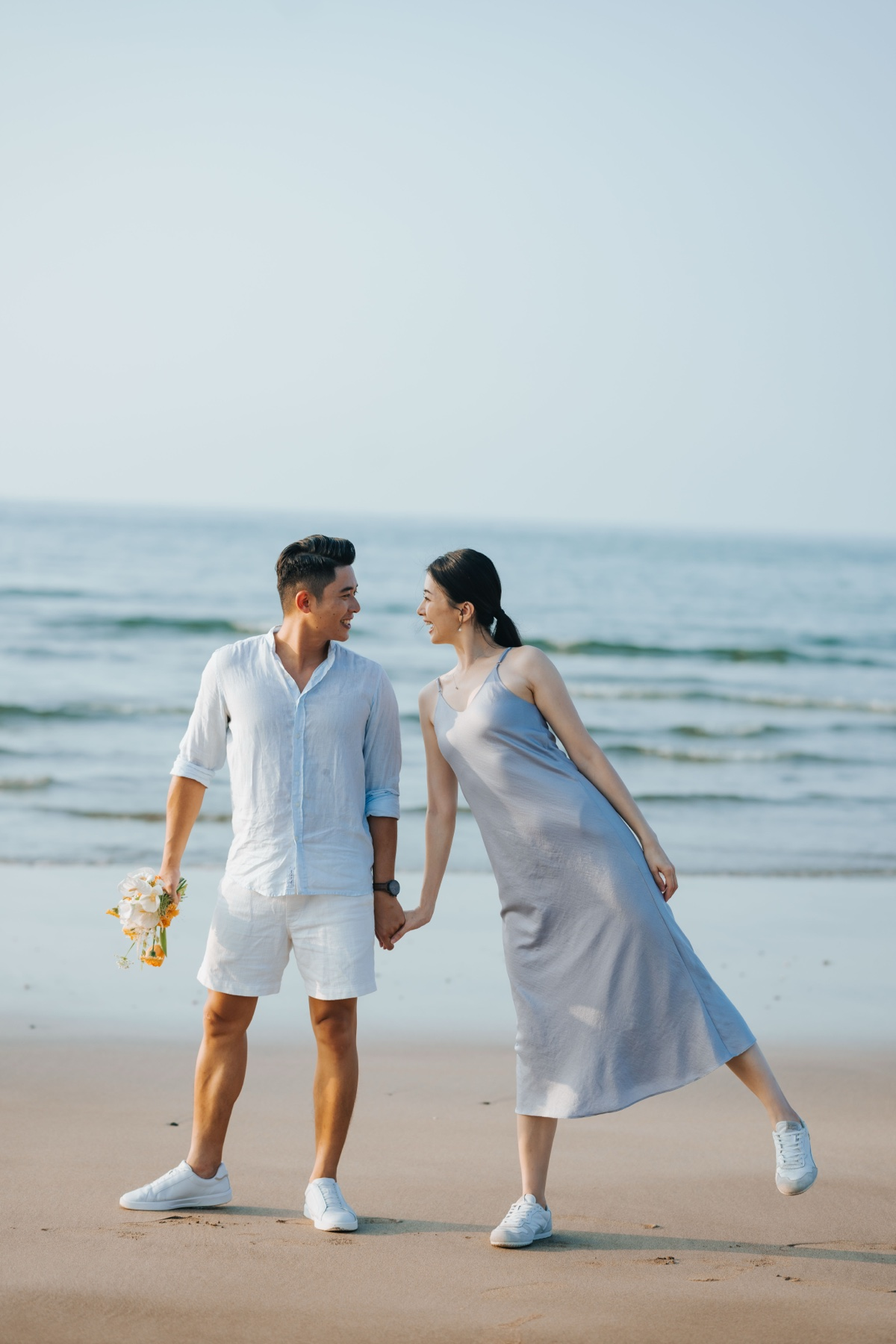
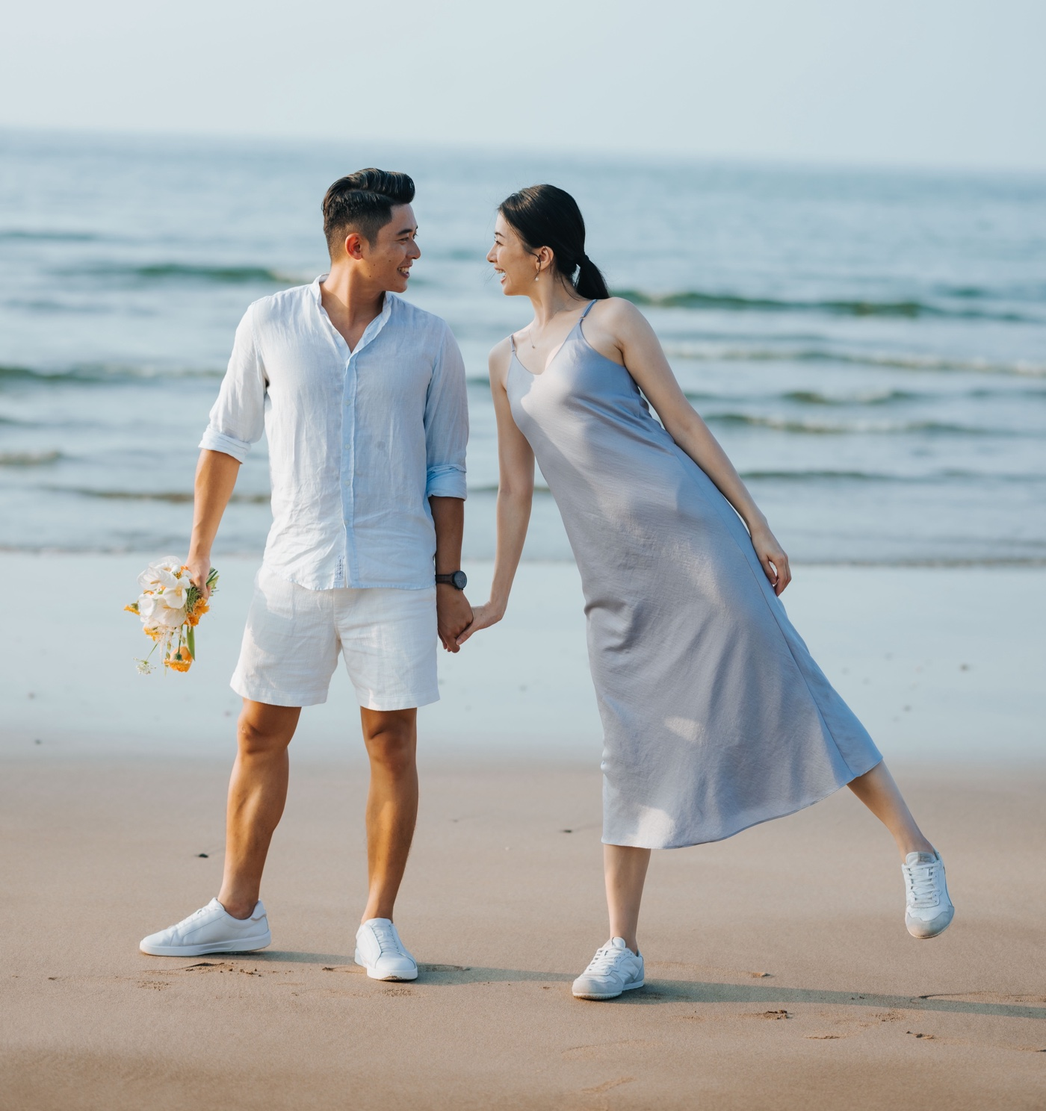
感謝區改版：隱藏標題、照片放大、結尾照裁掉天空
1. 送出回函後，「Kindly reply / 期待，與你相見」這組標題會一起隱藏。
   原本只隱藏表單，標題留著，看起來像還要再填一次。
   按「返回回函內容」會還原。

2. 感謝照從 max-width 460px 放大到內容滿版（.rsvp 內容寬 752px），
   跟底下的回函結果框對齊。手機同樣改成滿版。

3. 結尾照（毛片 931）從原檔頂端裁掉 2400px，天空只留一條。
   比例從 0.667 變成 0.94，版位跟著從 340px 放大到 430px，
   手機從 260px 放大到 310px。

驗過：電腦 1024 寬與手機 375×812。手機 scrollWidth 等於 clientWidth，
沒有水平溢出。

diff --git a/index.html b/index.html
@@ -24,20 +24,20 @@ body{font-family:'Wedding English Italic','Wedding English','LXGW WenKai TC','Pi
 body,body *{font-family:'Wedding English Italic','Wedding English','LXGW WenKai TC','PingFang TC','Microsoft JhengHei',sans-serif}
 .eyebrow{text-transform:none;letter-spacing:1.2px;font-size:20px}.calendar-heading{letter-spacing:1px}label small{letter-spacing:.5px}
 .reply-result-panel{scroll-margin-top:90px;text-align:center}.reply-result-heading{margin-bottom:25px}.reply-frame-wrap{background:#e9e1d8;border:1px solid #d3c9bd;padding:18px}.reply-frame-wrap iframe{display:block;width:100%;height:650px;border:0;background:#f7f3ee}.reply-photo{margin:55px 0 30px}.reply-photo img{display:block;width:100%;height:auto}.reply-photo figcaption{font-size:23px;margin-top:15px;color:#748071}@media(max-width:700px){.reply-frame-wrap{padding:8px}.reply-frame-wrap iframe{height:580px}.reply-photo{margin-top:35px}}
-.reply-photo{max-width:460px;margin:0 auto 30px}.reply-photo img{width:100%;height:auto}.reply-result-heading{margin-bottom:25px}@media(max-width:700px){.reply-photo{max-width:320px;margin:0 auto 25px}}
+.reply-photo{max-width:none;margin:0 auto 34px}.reply-photo img{width:100%;height:auto}.reply-result-heading{margin-bottom:25px}@media(max-width:700px){.reply-photo{max-width:none;margin:0 auto 25px}}
 
 /* Larger guest-facing text for comfortable reading. */
 .tagline{font-size:19px}.hero-copy>.button{font-size:15px}.card h3{font-size:22px}.card p{font-size:16px}.card>.small{font-size:14px}.card .map-link{font-size:15px}.number{font-size:30px}
 #reply label,#reply legend{font-size:15px}#reply label small{font-size:14px}#reply input,#reply select,#reply textarea{font-size:18px}#reply .small{font-size:14px}#reply .button{font-size:15px}#reply .form-footer span{font-size:13px}
 @media(max-width:700px){.tagline{font-size:17px}}
 .attendance-block{border:1px solid #ccd3c6;padding:25px;margin:8px 0;background:#f1f3eb}.attendance-block>legend{font-size:23px;padding:0 10px}.attendance-block>label,.attendance-block #lunch-details>label{margin-top:20px}.diet-options{padding:0;border:0;margin:25px 0 0}.diet-options>label{display:flex;align-items:center;gap:12px;margin:12px 0}.diet-options input[type=checkbox]{width:22px;min-height:22px;margin:0}.diet-options #diet-other-field{display:block}.fields>.form-note{margin:0}.attendance-block input[readonly]{background:#e7ebe1}@media(max-width:700px){.attendance-block{padding:20px 15px}.attendance-block>legend{font-size:20px}}
-.addr{font-size:13px;color:#748071;margin:-6px 0 14px;letter-spacing:.3px}.travel{background:var(--paper);padding:80px 6%}.map-actions{display:flex;flex-wrap:wrap;gap:20px;align-items:center}.travel-top{max-width:1100px;margin:0 auto 26px;display:flex;flex-direction:column;align-items:center;gap:20px}.travel-figure{margin:0;max-width:700px;width:100%}.travel-map text{font-family:'Wedding English','LXGW WenKai TC','PingFang TC',sans-serif;letter-spacing:.5px}.travel-map-scroll{overflow-x:auto;-webkit-overflow-scrolling:touch;border:1px solid #dce0d5;background:#faf9f4}.travel-figure .travel-map{width:100%;height:auto;display:block;background:#faf9f4}.travel-figure figcaption{font-size:12px;color:#748071;text-align:center;margin-top:10px}.pan-hint{display:none}.travel-actions{display:flex;flex-wrap:wrap;gap:14px;justify-content:center}@media(max-width:700px){.travel-figure .travel-map{min-width:660px}.pan-hint{display:inline}.travel{padding:55px 6%}.addr{font-size:14px}}/* 2026-11-07: 整體字級放大，並改用 LXGW 霞鶩文楷 TC。原本的 ChenYuluoyan 缺「高雄市路號交通規劃線」等字形，缺字的地方會掉回系統黑體，同一行變成兩種字體。霞鶩文楷是楷體，繁體字形齊全，字面也比較大。*/body{font-size:18px}.tagline{font-size:22px}.card h3{font-size:26px}.card p{font-size:19px}.card>.small{font-size:16px}.card .map-link,.map-link{font-size:17px}.addr{font-size:19px;color:#6b7768}.form-note,#reply .form-note{font-size:17px}#reply label{font-size:18px}#reply .small{font-size:16px}.travel-figure figcaption{font-size:14px}.button,#reply .button{font-size:17px}@media(max-width:700px){body{font-size:18px}.card h3{font-size:23px}.card p{font-size:18px}.addr{font-size:18px}.card .map-link,.map-link{font-size:17px}.form-note,#reply .form-note{font-size:17px}#reply label{font-size:18px}.travel-figure figcaption{font-size:14px}}/* 2026-11-07: 導覽列字級放大，與內文一致。*/.links{font-size:17px;gap:34px}.brand{font-size:28px}@media(max-width:700px){.links{font-size:15px;gap:18px}.brand{font-size:22px}}/* 2026-11-07: 回覆期限原本用 <strong>，會載入霞鶩文楷的 Bold 字檔，跟內文的 Regular 看起來是兩種字體。改成同字重、用金色強調。*/.form-note strong{font-weight:400;color:var(--gold);letter-spacing:.5px}/* 2026-11-07: 交通資訊之後補一段結尾感謝照。*/.closing{background:#f7f3e9;border-top:1px solid #ddd9cc;padding:80px 6%;text-align:center}.closing-photo{margin:0 auto 26px;max-width:340px}.closing-photo img{display:block;width:100%;height:auto}.closing-copy p{margin:0;font-size:21px;color:#6b7768;letter-spacing:.5px}@media(max-width:700px){.closing{padding:55px 6%}.closing-photo{max-width:260px}.closing-copy p{font-size:19px}}</style></head><body>
+.addr{font-size:13px;color:#748071;margin:-6px 0 14px;letter-spacing:.3px}.travel{background:var(--paper);padding:80px 6%}.map-actions{display:flex;flex-wrap:wrap;gap:20px;align-items:center}.travel-top{max-width:1100px;margin:0 auto 26px;display:flex;flex-direction:column;align-items:center;gap:20px}.travel-figure{margin:0;max-width:700px;width:100%}.travel-map text{font-family:'Wedding English','LXGW WenKai TC','PingFang TC',sans-serif;letter-spacing:.5px}.travel-map-scroll{overflow-x:auto;-webkit-overflow-scrolling:touch;border:1px solid #dce0d5;background:#faf9f4}.travel-figure .travel-map{width:100%;height:auto;display:block;background:#faf9f4}.travel-figure figcaption{font-size:12px;color:#748071;text-align:center;margin-top:10px}.pan-hint{display:none}.travel-actions{display:flex;flex-wrap:wrap;gap:14px;justify-content:center}@media(max-width:700px){.travel-figure .travel-map{min-width:660px}.pan-hint{display:inline}.travel{padding:55px 6%}.addr{font-size:14px}}/* 2026-11-07: 整體字級放大，並改用 LXGW 霞鶩文楷 TC。原本的 ChenYuluoyan 缺「高雄市路號交通規劃線」等字形，缺字的地方會掉回系統黑體，同一行變成兩種字體。霞鶩文楷是楷體，繁體字形齊全，字面也比較大。*/body{font-size:18px}.tagline{font-size:22px}.card h3{font-size:26px}.card p{font-size:19px}.card>.small{font-size:16px}.card .map-link,.map-link{font-size:17px}.addr{font-size:19px;color:#6b7768}.form-note,#reply .form-note{font-size:17px}#reply label{font-size:18px}#reply .small{font-size:16px}.travel-figure figcaption{font-size:14px}.button,#reply .button{font-size:17px}@media(max-width:700px){body{font-size:18px}.card h3{font-size:23px}.card p{font-size:18px}.addr{font-size:18px}.card .map-link,.map-link{font-size:17px}.form-note,#reply .form-note{font-size:17px}#reply label{font-size:18px}.travel-figure figcaption{font-size:14px}}/* 2026-11-07: 導覽列字級放大，與內文一致。*/.links{font-size:17px;gap:34px}.brand{font-size:28px}@media(max-width:700px){.links{font-size:15px;gap:18px}.brand{font-size:22px}}/* 2026-11-07: 回覆期限原本用 <strong>，會載入霞鶩文楷的 Bold 字檔，跟內文的 Regular 看起來是兩種字體。改成同字重、用金色強調。*/.form-note strong{font-weight:400;color:var(--gold);letter-spacing:.5px}/* 2026-11-07: 交通資訊之後補一段結尾感謝照。*/.closing{background:#f7f3e9;border-top:1px solid #ddd9cc;padding:80px 6%;text-align:center}.closing-photo{margin:0 auto 26px;max-width:430px}.closing-photo img{display:block;width:100%;height:auto}.closing-copy p{margin:0;font-size:21px;color:#6b7768;letter-spacing:.5px}@media(max-width:700px){.closing{padding:55px 6%}.closing-photo{max-width:310px}.closing-copy p{font-size:19px}}</style></head><body>
 
 <header><nav aria-label="主要導覽"><a class="brand" href="#home">L&amp;A</a><div class="links"><a href="#details">婚禮資訊</a><a href="#rsvp">出席回函</a><a href="#travel">交通資訊</a></div></nav></header>
 <main><section class="hero" id="home"><div class="hero-copy"><div class="eyebrow">Our love, Our adventure</div><h1>晏徵 <em>&amp;</em> 佳瑜</h1><p class="tagline">一起，把日子過成喜歡的樣子。<br>也想邀請你，成為這一天的風景。</p><p class="hero-date">2027.01.09 · 星期六</p><a class="button" href="#rsvp">與我們一起慶祝 ↗</a></div><div><div class="portrait"><img class="wedding-photo" src="wedding-portrait.jpg" alt="晏徵與佳瑜在草地上相依而笑的婚紗合照" fetchpriority="high"></div><div class="caption">A little moment, a lifetime of us.</div></div></section>
 
 <section class="save-date calendar-alternative" aria-labelledby="calendar-title-alternative"><div class="calendar-triptych"><figure class="side-photo"><img src="calendar-groom.jpg" alt="新郎晏徵的戶外婚紗照" loading="lazy"></figure><div class="calendar-copy"><div class="eyebrow">Save Our Date</div><h2 id="calendar-title-alternative" class="calendar-heading"><span>January</span><span>2027</span></h2><div class="wedding-calendar" aria-label="2027 年 1 月日曆，9 日為婚禮日"><span class="calendar-weekday">日</span><span class="calendar-weekday">一</span><span class="calendar-weekday">二</span><span class="calendar-weekday">三</span><span class="calendar-weekday">四</span><span class="calendar-weekday">五</span><span class="calendar-weekday">六</span><span aria-hidden="true"></span><span aria-hidden="true"></span><span aria-hidden="true"></span><span aria-hidden="true"></span><span aria-hidden="true"></span><span class="calendar-day">1</span><span class="calendar-day">2</span><span class="calendar-day">3</span><span class="calendar-day">4</span><span class="calendar-day">5</span><span class="calendar-day">6</span><span class="calendar-day">7</span><span class="calendar-day">8</span><span class="calendar-day wedding-day" aria-label="1 月 9 日 星期六，婚禮日"><svg viewBox="0 0 80 80" aria-hidden="true"><path d="M40 68C33 61 8 44 8 26C8 8 30 7 40 24C51 6 73 9 72 27C71 44 48 63 40 68Z"/></svg><strong>9</strong></span><span class="calendar-day">10</span><span class="calendar-day">11</span><span class="calendar-day">12</span><span class="calendar-day">13</span><span class="calendar-day">14</span><span class="calendar-day">15</span><span class="calendar-day">16</span><span class="calendar-day">17</span><span class="calendar-day">18</span><span class="calendar-day">19</span><span class="calendar-day">20</span><span class="calendar-day">21</span><span class="calendar-day">22</span><span class="calendar-day">23</span><span class="calendar-day">24</span><span class="calendar-day">25</span><span class="calendar-day">26</span><span class="calendar-day">27</span><span class="calendar-day">28</span><span class="calendar-day">29</span><span class="calendar-day">30</span><span class="calendar-day">31</span><span aria-hidden="true"></span><span aria-hidden="true"></span><span aria-hidden="true"></span><span aria-hidden="true"></span><span aria-hidden="true"></span><span aria-hidden="true"></span></div></div><figure class="side-photo"><img src="calendar-bride.jpg" alt="新娘佳瑜的戶外婚紗照" loading="lazy"></figure></div></section><section class="details" id="details"><div class="section-head"><div class="eyebrow">The Wedding Day</div><h2 class="section-title">把這一天，留給我們</h2></div><div class="cards"><article class="card"><div class="number">01 /</div><h3>婚禮儀式</h3><div class="small">The Ceremony</div><p>2027 年 1 月 9 日（六）<br>09:30–10:30</p><p>地點：台灣基督長老教會前金教會</p><p class="addr">高雄市前金區五福三路 97 號</p><a class="map-link" href="https://maps.app.goo.gl/phby8ZSrJLgBkXyQA" target="_blank" rel="noopener noreferrer" aria-label="在 Google 地圖開啟台灣基督長老教會前金教會">查看地圖 ↗</a></article><article class="card"><div class="number">02 /</div><h3>午宴相聚</h3><div class="small">The Celebration</div><p>2027 年 1 月 9 日（六）<br>12:00–14:30</p><p>地點：老新台菜九如店</p><p class="addr">高雄市三民區九如二路 227 號</p><a class="map-link" href="https://maps.app.goo.gl/Qx95wd6UuRTA6n839" target="_blank" rel="noopener noreferrer" aria-label="在 Google 地圖開啟老新台菜九如創始店">查看地圖 ↗</a></article></div></section>
-<section class="rsvp" id="rsvp"><div class="section-head"><div class="eyebrow">Kindly reply</div><h2 class="section-title">期待，與你相見</h2><p>留下你的出席意願，讓幸福有你的位置。</p></div><form id="reply" action="https://docs.google.com/forms/d/e/1FAIpQLSdvM0_wdGFVBdTxaj0LANCk2AFdigYhXw1_oxZYpaJUNWiHQQ/formResponse" method="post" target="rsvp-result"><input type="hidden" name="fvv" value="1"><input type="hidden" name="pageHistory" id="reply-pages" value="0"><div class="fields"><p class="form-note"><strong>請於 2026 年 12 月 20 日（日）前回覆。</strong><br>儀式與午宴分別統計，兩場人數可以不同，請分別填寫。未參加的場次，人數會自動填為 0。</p><label>姓名 <small>NAME *</small><input name="entry.859188284" autocomplete="name" required placeholder="怎麼稱呼你？"></label><fieldset class="attendance-block"><legend>① 證婚儀式｜09:30–10:30</legend><label>是否出席證婚儀式？ *<select id="ceremony-attendance" name="entry.1593922786" required><option value="">請選擇</option><option value="當然！">參加</option><option value="不參加">不參加</option></select></label><label>證婚儀式出席人數（含本人及兒童） *<select id="ceremony-count" name="entry.347045991" required><option value="">請選擇</option><option>0</option><option>1</option><option>2</option><option>3</option><option>4</option><option>5</option></select></label></fieldset><fieldset class="attendance-block"><legend>② 午宴｜12:00–14:30</legend><label>是否出席午宴？ *<select id="lunch-attendance" name="entry.1276375646" required><option value="">請選擇</option><option value="一定會出席!">參加</option><option value="無法出席，祝你們幸福!">不參加</option></select></label><label>午宴出席人數（含本人及兒童） *<select id="lunch-count" name="entry.811346646" required><option value="">請選擇</option><option>0</option><option>1</option><option>2</option><option>3</option><option>4</option><option>5</option></select></label><div id="lunch-details" hidden><label>午宴兒童座椅需求 *<select name="entry.1755943775" id="lunch-chair" disabled><option value="">請選擇</option><option>不需要</option><option>１</option><option>２</option><option>３</option><option>４</option></select></label><fieldset class="diet-options"><legend>午宴飲食需求 *</legend><label><input type="checkbox" name="entry.61594146" value="葷" disabled>葷</label><label><input type="checkbox" name="entry.61594146" value="素" disabled>素</label><label><input id="diet-other" type="checkbox" name="entry.61594146" value="__other_option__" disabled>其他</label><label id="diet-other-field" hidden>過敏原或特殊飲食需求<input id="diet-other-text" name="entry.61594146.other_option_response" type="text" disabled placeholder="例如：花生過敏、不吃海鮮"></label><p class="small">可複選；如有過敏原或特殊飲食需求，請勾選「其他」並填寫。</p></fieldset></div></fieldset></div><div class="form-footer"><button class="button" id="send-reply" type="submit">送出出席回函 ↗</button></div><p class="small">＊為必填欄位 · 回函將直接傳送至新人的 Google 表單。</p><div id="reply-status" role="status" class="form-note" hidden></div></form><section id="reply-result-panel" class="reply-result-panel" aria-labelledby="reply-result-title" hidden><div class="reply-result-heading"><div class="eyebrow">With love &amp; thanks</div><h2 id="reply-result-title" class="section-title" tabindex="-1">謝謝你的回覆</h2></div><figure class="reply-photo"><img src="reply-photo.jpeg" alt="晏徵與佳瑜在白牆前席地而坐、手捧黃色捧花的婚紗合照" loading="lazy"><figcaption>Our love, Our adventure</figcaption></figure><div class="reply-frame-wrap"><iframe name="rsvp-result" id="reply-result-frame" title="Google 表單回函結果"></iframe></div><p class="small">若結果未能顯示，請聯絡新人確認收件。</p><button type="button" class="button light" id="back-to-reply">返回回函內容</button></section></section>
+<section class="rsvp" id="rsvp"><div class="section-head" id="rsvp-head"><div class="eyebrow">Kindly reply</div><h2 class="section-title">期待，與你相見</h2><p>留下你的出席意願，讓幸福有你的位置。</p></div><form id="reply" action="https://docs.google.com/forms/d/e/1FAIpQLSdvM0_wdGFVBdTxaj0LANCk2AFdigYhXw1_oxZYpaJUNWiHQQ/formResponse" method="post" target="rsvp-result"><input type="hidden" name="fvv" value="1"><input type="hidden" name="pageHistory" id="reply-pages" value="0"><div class="fields"><p class="form-note"><strong>請於 2026 年 12 月 20 日（日）前回覆。</strong><br>儀式與午宴分別統計，兩場人數可以不同，請分別填寫。未參加的場次，人數會自動填為 0。</p><label>姓名 <small>NAME *</small><input name="entry.859188284" autocomplete="name" required placeholder="怎麼稱呼你？"></label><fieldset class="attendance-block"><legend>① 證婚儀式｜09:30–10:30</legend><label>是否出席證婚儀式？ *<select id="ceremony-attendance" name="entry.1593922786" required><option value="">請選擇</option><option value="當然！">參加</option><option value="不參加">不參加</option></select></label><label>證婚儀式出席人數（含本人及兒童） *<select id="ceremony-count" name="entry.347045991" required><option value="">請選擇</option><option>0</option><option>1</option><option>2</option><option>3</option><option>4</option><option>5</option></select></label></fieldset><fieldset class="attendance-block"><legend>② 午宴｜12:00–14:30</legend><label>是否出席午宴？ *<select id="lunch-attendance" name="entry.1276375646" required><option value="">請選擇</option><option value="一定會出席!">參加</option><option value="無法出席，祝你們幸福!">不參加</option></select></label><label>午宴出席人數（含本人及兒童） *<select id="lunch-count" name="entry.811346646" required><option value="">請選擇</option><option>0</option><option>1</option><option>2</option><option>3</option><option>4</option><option>5</option></select></label><div id="lunch-details" hidden><label>午宴兒童座椅需求 *<select name="entry.1755943775" id="lunch-chair" disabled><option value="">請選擇</option><option>不需要</option><option>１</option><option>２</option><option>３</option><option>４</option></select></label><fieldset class="diet-options"><legend>午宴飲食需求 *</legend><label><input type="checkbox" name="entry.61594146" value="葷" disabled>葷</label><label><input type="checkbox" name="entry.61594146" value="素" disabled>素</label><label><input id="diet-other" type="checkbox" name="entry.61594146" value="__other_option__" disabled>其他</label><label id="diet-other-field" hidden>過敏原或特殊飲食需求<input id="diet-other-text" name="entry.61594146.other_option_response" type="text" disabled placeholder="例如：花生過敏、不吃海鮮"></label><p class="small">可複選；如有過敏原或特殊飲食需求，請勾選「其他」並填寫。</p></fieldset></div></fieldset></div><div class="form-footer"><button class="button" id="send-reply" type="submit">送出出席回函 ↗</button></div><p class="small">＊為必填欄位 · 回函將直接傳送至新人的 Google 表單。</p><div id="reply-status" role="status" class="form-note" hidden></div></form><section id="reply-result-panel" class="reply-result-panel" aria-labelledby="reply-result-title" hidden><div class="reply-result-heading"><div class="eyebrow">With love &amp; thanks</div><h2 id="reply-result-title" class="section-title" tabindex="-1">謝謝你的回覆</h2></div><figure class="reply-photo"><img src="reply-photo.jpeg" alt="晏徵與佳瑜在白牆前席地而坐、手捧黃色捧花的婚紗合照" loading="lazy"><figcaption>Our love, Our adventure</figcaption></figure><div class="reply-frame-wrap"><iframe name="rsvp-result" id="reply-result-frame" title="Google 表單回函結果"></iframe></div><p class="small">若結果未能顯示，請聯絡新人確認收件。</p><button type="button" class="button light" id="back-to-reply">返回回函內容</button></section></section>
 <section class="travel" id="travel"><div class="section-head"><div class="eyebrow">Getting there</div><h2 class="section-title">到老新台菜的路</h2><p>午宴場地在九如二路上，詳細路線請開 Google 地圖。</p></div><div class="travel-top"><div class="travel-actions"><a class="button" href="https://maps.app.goo.gl/Qx95wd6UuRTA6n839" target="_blank" rel="noopener noreferrer">在 Google 地圖開啟 ↗</a></div><figure class="travel-figure"><div class="travel-map-scroll"><svg class="travel-map" viewBox="0 0 800 480" xmlns="http://www.w3.org/2000/svg" role="img" aria-labelledby="map-t map-d"><title id="map-t">老新台菜九如創始店周邊示意圖</title><desc id="map-d">餐廳在九如二路南側，介於瀋陽街與復興路之間。九如二路由西向東依序與博愛路、瀋陽街、自由路（南段為復興路）、青島街、中山高相交；南邊一條平行的龍江街。餐廳有老新專屬停車場，周邊另有五處停車場。西側是高雄後火車站，東側是中山高九如交流道。</desc><rect width="800" height="480" fill="#faf9f4"/><rect x="137" y="52" width="26" height="123" rx="13" fill="#5c4d42"/><rect x="239" y="52" width="26" height="348" rx="13" fill="#5c4d42"/><rect x="479" y="50" width="26" height="342" rx="13" fill="#5c4d42"/><rect x="575" y="50" width="26" height="125" rx="13" fill="#5c4d42"/><rect x="656" y="26" width="28" height="422" rx="14" fill="#5c4d42"/><rect x="252" y="288" width="344" height="24" rx="12" fill="#5c4d42"/><rect x="24" y="159" width="724" height="32" rx="16" fill="#5c4d42"/><text x="150" y="72" font-size="17" font-weight="600" fill="#faf9f4" text-anchor="middle" dominant-baseline="central">博</text><text x="150" y="91" font-size="17" font-weight="600" fill="#faf9f4" text-anchor="middle" dominant-baseline="central">愛</text><text x="150" y="110" font-size="17" font-weight="600" fill="#faf9f4" text-anchor="middle" dominant-baseline="central">路</text><text x="252" y="72" font-size="17" font-weight="600" fill="#faf9f4" text-anchor="middle" dominant-baseline="central">瀋</text><text x="252" y="91" font-size="17" font-weight="600" fill="#faf9f4" text-anchor="middle" dominant-baseline="central">陽</text><text x="252" y="110" font-size="17" font-weight="600" fill="#faf9f4" text-anchor="middle" dominant-baseline="central">街</text><text x="492" y="72" font-size="17" font-weight="600" fill="#faf9f4" text-anchor="middle" dominant-baseline="central">自</text><text x="492" y="91" font-size="17" font-weight="600" fill="#faf9f4" text-anchor="middle" dominant-baseline="central">由</text><text x="492" y="110" font-size="17" font-weight="600" fill="#faf9f4" text-anchor="middle" dominant-baseline="central">路</text><text x="588" y="72" font-size="17" font-weight="600" fill="#faf9f4" text-anchor="middle" dominant-baseline="central">青</text><text x="588" y="91" font-size="17" font-weight="600" fill="#faf9f4" text-anchor="middle" dominant-baseline="central">島</text><text x="588" y="110" font-size="17" font-weight="600" fill="#faf9f4" text-anchor="middle" dominant-baseline="central">街</text><text x="670" y="48" font-size="17" font-weight="600" fill="#faf9f4" text-anchor="middle" dominant-baseline="central">中</text><text x="670" y="67" font-size="17" font-weight="600" fill="#faf9f4" text-anchor="middle" dominant-baseline="central">山</text><text x="670" y="86" font-size="17" font-weight="600" fill="#faf9f4" text-anchor="middle" dominant-baseline="central">高</text><text x="492" y="212" font-size="17" font-weight="600" fill="#faf9f4" text-anchor="middle" dominant-baseline="central">復</text><text x="492" y="231" font-size="17" font-weight="600" fill="#faf9f4" text-anchor="middle" dominant-baseline="central">興</text><text x="492" y="250" font-size="17" font-weight="600" fill="#faf9f4" text-anchor="middle" dominant-baseline="central">路</text><text x="670" y="212" font-size="17" font-weight="600" fill="#faf9f4" text-anchor="middle" dominant-baseline="central">九</text><text x="670" y="231" font-size="17" font-weight="600" fill="#faf9f4" text-anchor="middle" dominant-baseline="central">如</text><text x="670" y="250" font-size="17" font-weight="600" fill="#faf9f4" text-anchor="middle" dominant-baseline="central">交</text><text x="670" y="269" font-size="17" font-weight="600" fill="#faf9f4" text-anchor="middle" dominant-baseline="central">流</text><text x="670" y="288" font-size="17" font-weight="600" fill="#faf9f4" text-anchor="middle" dominant-baseline="central">道</text><text x="420" y="175" font-size="17" font-weight="600" fill="#faf9f4" letter-spacing="2" text-anchor="middle" dominant-baseline="central">九如二路</text><text x="380" y="300" font-size="15" font-weight="600" fill="#faf9f4" letter-spacing="2" text-anchor="middle" dominant-baseline="central">龍江街</text><circle cx="150" cy="215" r="17" fill="none" stroke="#5c4d42" stroke-width="2.5"/><text x="150" y="216" font-size="15" font-weight="600" fill="#5c4d42" text-anchor="middle" dominant-baseline="central">站</text><text x="150" y="250" font-size="15" font-weight="600" fill="#5c4d42" text-anchor="middle" dominant-baseline="central">後</text><text x="150" y="267" font-size="15" font-weight="600" fill="#5c4d42" text-anchor="middle" dominant-baseline="central">火</text><text x="150" y="284" font-size="15" font-weight="600" fill="#5c4d42" text-anchor="middle" dominant-baseline="central">車</text><text x="150" y="301" font-size="15" font-weight="600" fill="#5c4d42" text-anchor="middle" dominant-baseline="central">站</text><path d="M60 352 L66 374 L60 369 L54 374 Z" fill="#5c4d42"/><text x="60" y="390" font-size="12" fill="#5c4d42" text-anchor="middle">N</text><rect x="195" y="201" width="34" height="34" rx="8" fill="#a8824e"/><text x="212" y="219" font-size="22" font-weight="700" fill="#faf9f4" text-anchor="middle" dominant-baseline="central">P</text><text x="212" y="249" font-size="11" fill="#5c4d42" text-anchor="middle">停車場</text><rect x="271" y="201" width="34" height="34" rx="8" fill="#a8824e"/><text x="288" y="219" font-size="22" font-weight="700" fill="#faf9f4" text-anchor="middle" dominant-baseline="central">P</text><text x="288" y="249" font-size="11" fill="#5c4d42" text-anchor="middle">停車場</text><rect x="395" y="201" width="34" height="34" rx="8" fill="#a8824e"/><text x="412" y="219" font-size="22" font-weight="700" fill="#faf9f4" text-anchor="middle" dominant-baseline="central">P</text><text x="412" y="249" font-size="11" fill="#5c4d42" text-anchor="middle">老新</text><text x="412" y="262" font-size="11" fill="#5c4d42" text-anchor="middle">停車場</text><rect x="435" y="201" width="34" height="34" rx="8" fill="#a8824e"/><text x="452" y="219" font-size="22" font-weight="700" fill="#faf9f4" text-anchor="middle" dominant-baseline="central">P</text><text x="452" y="249" font-size="11" fill="#5c4d42" text-anchor="middle">停車場</text><rect x="523" y="105" width="34" height="34" rx="8" fill="#a8824e"/><text x="540" y="123" font-size="22" font-weight="700" fill="#faf9f4" text-anchor="middle" dominant-baseline="central">P</text><text x="540" y="153" font-size="11" fill="#5c4d42" text-anchor="middle">停車場</text><rect x="435" y="325" width="34" height="34" rx="8" fill="#a8824e"/><text x="452" y="343" font-size="22" font-weight="700" fill="#faf9f4" text-anchor="middle" dominant-baseline="central">P</text><text x="452" y="373" font-size="11" fill="#5c4d42" text-anchor="middle">停車場</text><rect x="310" y="194" width="80" height="66" rx="6" fill="#7b3f3a"/><text x="350" y="221" font-size="17" font-weight="700" fill="#faf9f4" text-anchor="middle" dominant-baseline="central">老新</text><text x="350" y="243" font-size="13" fill="#faf9f4" text-anchor="middle" dominant-baseline="central">台菜</text><text x="350" y="278" font-size="11" fill="#5c4d42" text-anchor="middle">九如創始店</text></svg></div><figcaption>周邊示意圖 · 依老新台菜的交通指南卡繪製，實際路線以 Google 地圖為準<span class="pan-hint"> · 地圖可左右滑動</span></figcaption></figure></div></section>
 <section class="closing" id="closing"><figure class="closing-photo"><img src="closing-photo.jpg" alt="晏徵與佳瑜在海邊牽手散步的便服合照" loading="lazy"></figure><div class="closing-copy"><div class="eyebrow">Thank you</div><p>謝謝你讀到這裡。2027.01.09，高雄見。</p></div></section></main><footer><div class="brand">晏徵＆佳瑜</div><p>With love, always.</p><p>晏徵＆佳瑜 · 2027.01.09</p></footer><a href="#rsvp" class="floating">出席回函 ↗</a>
-<script>const replyForm=document.getElementById('reply'),resultPanel=document.getElementById('reply-result-panel'),sendReply=document.getElementById('send-reply'),ceremony=document.getElementById('ceremony-attendance'),ceremonyCount=document.getElementById('ceremony-count'),lunch=document.getElementById('lunch-attendance'),lunchCount=document.getElementById('lunch-count'),chair=document.getElementById('lunch-chair'),other=document.getElementById('diet-other'),otherText=document.getElementById('diet-other-text'),diet=Array.from(replyForm.querySelectorAll('input[name="entry.61594146"]'));let sending=false;function validateCounts(){ceremonyCount.setCustomValidity(ceremony.value==='當然！'&&Number(ceremonyCount.value)<1?'參加儀式請填寫至少 1 人':'');lunchCount.setCustomValidity(lunch.value==='一定會出席!'&&lunchCount.value==='0'?'參加午宴請選擇至少 1 人':'')}function validateDiet(){diet[0].setCustomValidity(lunch.value==='一定會出席!'&&!diet.some(c=>c.checked)?'請至少選擇一項飲食需求':'')}function updateOther(){const show=lunch.value==='一定會出席!'&&other.checked;document.getElementById('diet-other-field').hidden=!show;otherText.disabled=!show;otherText.required=show}function update(){const cNo=ceremony.value==='不參加',lYes=lunch.value==='一定會出席!',lNo=lunch.value==='無法出席，祝你們幸福!';if(cNo)ceremonyCount.value='0';else if(ceremonyCount.value==='0')ceremonyCount.value='';Array.from(ceremonyCount.options).forEach(o=>{o.disabled=cNo?o.value!=='0':ceremony.value==='當然！'&&o.value==='0'});if(lNo)lunchCount.value='0';else if(lYes&&lunchCount.value==='0')lunchCount.value='';Array.from(lunchCount.options).forEach(o=>{o.disabled=lNo?o.value!=='0':lYes&&o.value==='0'});document.getElementById('lunch-details').hidden=!lYes;chair.disabled=!lYes;chair.required=lYes;diet.forEach(c=>{c.disabled=!lYes;if(!lYes)c.checked=false});document.getElementById('reply-pages').value=lYes?'0,1':'0';updateOther();validateCounts();validateDiet()}ceremony.addEventListener('change',update);lunch.addEventListener('change',update);ceremonyCount.addEventListener('change',validateCounts);lunchCount.addEventListener('change',validateCounts);diet.forEach(c=>c.addEventListener('change',()=>{updateOther();validateDiet()}));replyForm.addEventListener('submit',e=>{validateCounts();validateDiet();if(!replyForm.reportValidity()||sending){e.preventDefault();return}sending=true;sendReply.disabled=true;resultPanel.hidden=false;replyForm.hidden=true;document.getElementById('reply-result-title').focus({preventScroll:true});resultPanel.scrollIntoView({behavior:'smooth',block:'start'})});document.getElementById('back-to-reply').addEventListener('click',()=>{resultPanel.hidden=true;replyForm.hidden=false;sendReply.disabled=false;sending=false;replyForm.scrollIntoView({behavior:'smooth',block:'start'})});update();</script></body></html>
+<script>const replyForm=document.getElementById('reply'),resultPanel=document.getElementById('reply-result-panel'),sendReply=document.getElementById('send-reply'),ceremony=document.getElementById('ceremony-attendance'),ceremonyCount=document.getElementById('ceremony-count'),lunch=document.getElementById('lunch-attendance'),lunchCount=document.getElementById('lunch-count'),chair=document.getElementById('lunch-chair'),other=document.getElementById('diet-other'),otherText=document.getElementById('diet-other-text'),diet=Array.from(replyForm.querySelectorAll('input[name="entry.61594146"]')),rsvpHead=document.getElementById('rsvp-head');let sending=false;function validateCounts(){ceremonyCount.setCustomValidity(ceremony.value==='當然！'&&Number(ceremonyCount.value)<1?'參加儀式請填寫至少 1 人':'');lunchCount.setCustomValidity(lunch.value==='一定會出席!'&&lunchCount.value==='0'?'參加午宴請選擇至少 1 人':'')}function validateDiet(){diet[0].setCustomValidity(lunch.value==='一定會出席!'&&!diet.some(c=>c.checked)?'請至少選擇一項飲食需求':'')}function updateOther(){const show=lunch.value==='一定會出席!'&&other.checked;document.getElementById('diet-other-field').hidden=!show;otherText.disabled=!show;otherText.required=show}function update(){const cNo=ceremony.value==='不參加',lYes=lunch.value==='一定會出席!',lNo=lunch.value==='無法出席，祝你們幸福!';if(cNo)ceremonyCount.value='0';else if(ceremonyCount.value==='0')ceremonyCount.value='';Array.from(ceremonyCount.options).forEach(o=>{o.disabled=cNo?o.value!=='0':ceremony.value==='當然！'&&o.value==='0'});if(lNo)lunchCount.value='0';else if(lYes&&lunchCount.value==='0')lunchCount.value='';Array.from(lunchCount.options).forEach(o=>{o.disabled=lNo?o.value!=='0':lYes&&o.value==='0'});document.getElementById('lunch-details').hidden=!lYes;chair.disabled=!lYes;chair.required=lYes;diet.forEach(c=>{c.disabled=!lYes;if(!lYes)c.checked=false});document.getElementById('reply-pages').value=lYes?'0,1':'0';updateOther();validateCounts();validateDiet()}ceremony.addEventListener('change',update);lunch.addEventListener('change',update);ceremonyCount.addEventListener('change',validateCounts);lunchCount.addEventListener('change',validateCounts);diet.forEach(c=>c.addEventListener('change',()=>{updateOther();validateDiet()}));replyForm.addEventListener('submit',e=>{validateCounts();validateDiet();if(!replyForm.reportValidity()||sending){e.preventDefault();return}sending=true;sendReply.disabled=true;resultPanel.hidden=false;replyForm.hidden=true;rsvpHead.hidden=true;document.getElementById('reply-result-title').focus({preventScroll:true});resultPanel.scrollIntoView({behavior:'smooth',block:'start'})});document.getElementById('back-to-reply').addEventListener('click',()=>{resultPanel.hidden=true;replyForm.hidden=false;rsvpHead.hidden=false;sendReply.disabled=false;sending=false;replyForm.scrollIntoView({behavior:'smooth',block:'start'})});update();</script></body></html>
